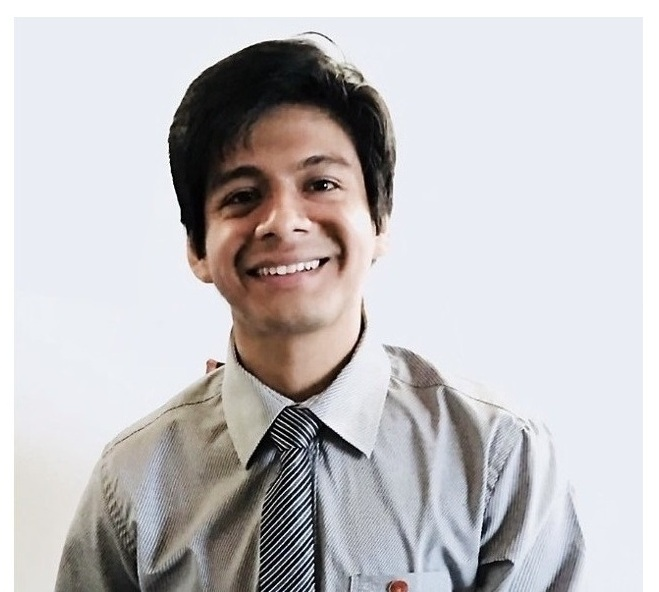
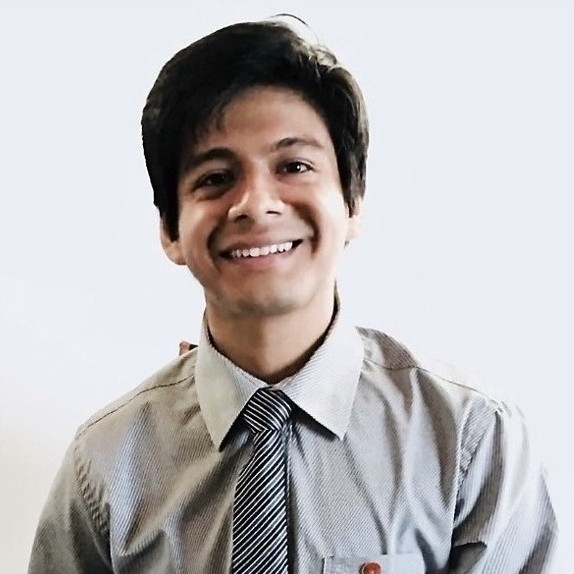
Ajustes

Changed region(s): [[0.0, 0.0, 0.9774, 1.0], [0.3258, 0.8293, 0.3554, 0.8589]]

diff --git a/Assets/Css/Style.css b/Assets/Css/Style.css
@@ -14,7 +14,8 @@ body {
     padding: 0;
     justify-content: center;
     align-items: center;
-    background: linear-gradient(140deg, #191930, #000000, #151c2f);
+    /* background: linear-gradient(140deg, #191930, #000000, #151c2f); */
+    background: linear-gradient(140deg, #000000, #080409, #1e2128);
     box-sizing: border-box;
 }
 
@@ -27,13 +28,10 @@ body.light {
 /* Dark / Light mode */
 
 .mode {
+    position: absolute;
+    top: 20px;
+    right: 20px;
     text-align: center;
-    margin: auto;
-    left: 0;
-    right: 0;
-    top: 0;
-    bottom: 0;
-    padding-top: 5%;
 }
 
 .checkbox {
@@ -92,15 +90,19 @@ body.light {
 }
 
 .profile .data {
-    background-color: #0000001b;
-    backdrop-filter: blur(10px);
+    background: rgba(0, 0, 0, 0);
+    backdrop-filter: blur(16px) saturate(180%);
+    -webkit-backdrop-filter: blur(16px) saturate(180%);
     padding: 0 0 15px 0px;
-    width: min(350px, 88%);
+    width: min(430px, 88%);
     align-items: center;
-    border: 2px solid #ffffff11;
+    border: 2px solid rgba(255, 255, 255, 0.2);
     border-radius: 20px;
     text-align: center;
     position: relative;
+    box-shadow:
+        0 8px 32px 0 rgba(31, 38, 135, 0.37),
+        inset 0 1px 0 0 rgba(255, 255, 255, 0.1);
     /*overflow: hidden;*/
 }
 
@@ -109,9 +111,13 @@ body.light {
 }
 
 .profile .data img {
-    width: min(400px, 100%);
+    /* width: min(410px, 100%); */
+    width: 180px;
     height: auto;
-    border-radius: 20px 20px 0 0;
+    margin-top: 50px;
+    margin-bottom: 10px;
+    /*border-radius: 20px 20px 0 0;*/
+    border-radius: 50%;
     transition: all .3s;
 }
 
@@ -123,6 +129,7 @@ body.light {
     font-family: 'Poppins', sans-serif;
 }
 
+/*
 .profile .data .footImg {
     position: relative;
     height: 90px;
@@ -134,6 +141,7 @@ body.light {
 .profile .data .footImg.light {
     background: linear-gradient(to bottom, #f7f8ff00, #f7f8ff);
 }
+*/
 
 .profile .data .name {
     background-image: -webkit-linear-gradient(180deg, rgb(250, 150, 10), rgb(10, 102, 250));
@@ -146,6 +154,7 @@ body.light {
     padding-top: 10px;
 }
 
+/*
 .profile .data .contBody {
     background: linear-gradient(to bottom, #000000, #00000000);
     transition: all .3s;
@@ -154,13 +163,28 @@ body.light {
 .profile .data .contBody.light {
     background: linear-gradient(to bottom, #f7f8ff, #f7f8ff00);
 }
+*/
+
+.profile .data .contBody .perfil_d {
+    display: block;
+    font-size: 14px;
+    color: #ffffffaa;
+    margin: 5px 40px 50px 40px;
+    font-family: 'Poppins', sans-serif;
+    line-break: normal;
+    transition: all .6s;
+}
+
+.profile .data .contBody .perfil_d.light {
+    color: #000000aa;
+}
 
 .row-st {
     padding: 15px 30px;
 }
 
 .profile .data .description {
-    margin-top: 5px;
+    margin-top: 25px;
     font-size: 14px;
     font-weight: 600;
     color: #FFFFFF;
@@ -168,7 +192,8 @@ body.light {
 }
 
 .profile .data .description::before {
-    content: 'Systems Engineer';
+    /* content: 'Systems Engineer'; */
+    content: 'Ingeniero de Sistemas';
 }
 
 .profile .data .description.light {
@@ -177,12 +202,14 @@ body.light {
 
 .profile .data .txtRow {
     font-size: 14px;
-    color: #ffffff85;
+    /* color: #ffffff85; */
+    color: #FFF;
     transition: all .6s;
 }
 
 .profile .data .txtRow::before {
-    content: 'Professional profile and contact';
+    /* content: 'Professional profile and contact'; */
+    content: 'Perfil profesional y contacto';
 }
 
 .profile .data .txtRow.light {
@@ -190,21 +217,44 @@ body.light {
 }
 
 .Content-Social .txtRowSocial {
-    color: #ffffff85;
+    /* color: #ffffff85; */
+    color: #FFF;
     font-size: 14px;
-    margin: 15px auto 10px auto;
+    margin: 20px auto 10px auto;
     font-family: 'Poppins', sans-serif;
     line-break: normal;
     transition: all .6s;
 }
 
 .Content-Social .txtRowSocial::before {
-    content: 'Social networks';
+    /* content: 'Social networks'; */
+    content: 'Redes sociales';
 }
 
 .Content-Social .txtRowSocial.light {
     color: #000000;
 }
+
+
+.btnViewPry {
+    display: inline-block;
+    margin: 20px auto;
+    padding: 10px 20px;
+    width: 100%;
+    background: #FFF;
+    color: #000;
+    text-decoration: none;
+    border-radius: 5px;
+    font-weight: 500;
+    text-decoration: none;
+    transition: all .6s;
+}
+
+.btnViewPry.light {
+    background: #000;
+    color: #FFF;
+}
+
 
 .Social {
     display: flex;
@@ -364,5 +414,19 @@ body.light {
 
     to {
         background-position: 680px -94px;
+    }
+}
+
+@media (max-width: 510px) {
+    .profile .data img {
+        margin-top: 30px;
+    }
+
+    .row-st {
+        padding: 0;
+    }
+
+    .profile .data {
+        padding: 0 20px 30px 20px;
     }
 }

diff --git a/index.html b/index.html
@@ -42,11 +42,15 @@
         <div class="row-st">
             <center>
                 <div class="data">
-                    <img src="Assets/Images/Photo_profile.jpg" alt="">
+                    <img src="Assets/Images/Photo.jpg" alt="">
                     <div class="footImg"></div>
                     <div class="contBody">
                         <h3 class="name"></h3>
                         <p class="description"></p>
+                        <span class="perfil_d">
+                            Ingeniero de Sistemas con 5 años de experiencia en el ámbito de tecnología. Especializado
+                            en desarrollo Front-End y Back-End.
+                        </span>
                         <label class="txtRow"></label>
                     </div>
                     <div class="row-st">
@@ -59,6 +63,10 @@
                                     class="fa-brands fa-github"></i></a>
                             <button id="btneMail" data-social="Outlook" style="--accent-color: #364fc1;"><i
                                     class="fa-brands fa-microsoft"></i></button>
+                        </div>
+
+                        <div>
+                            <a href="" class="btnViewPry">Ver proyectos</a>
                         </div>
 
                         <div class="Content-Social">

diff --git a/Assets/Js/Js.js b/Assets/Js/Js.js
@@ -17,6 +17,7 @@ $(document).ready(function () {
         document.getElementsByClassName('footImg')[0].classList.toggle("light");
         document.getElementsByClassName('contBody')[0].classList.toggle("light");
         document.getElementsByClassName('description')[0].classList.toggle("light");
+        document.getElementsByClassName('perfil_d')[0].classList.toggle("light");
         document.getElementsByClassName('txtRow')[0].classList.toggle("light");
 
         for (i = 0; i < tagA; i++) {
@@ -25,6 +26,7 @@ $(document).ready(function () {
 
         document.getElementsByTagName('button')[0].classList.toggle('light');
         document.getElementsByClassName('txtRowSocial')[0].classList.toggle("light");
+        document.getElementsByClassName('btnViewPry')[1].classList.toggle("light");
         document.getElementsByClassName('foot')[0].classList.toggle("light");
         document.getElementsByTagName('p')[1].classList.toggle('light');
         document.getElementsByClassName('author')[0].classList.toggle("light");
